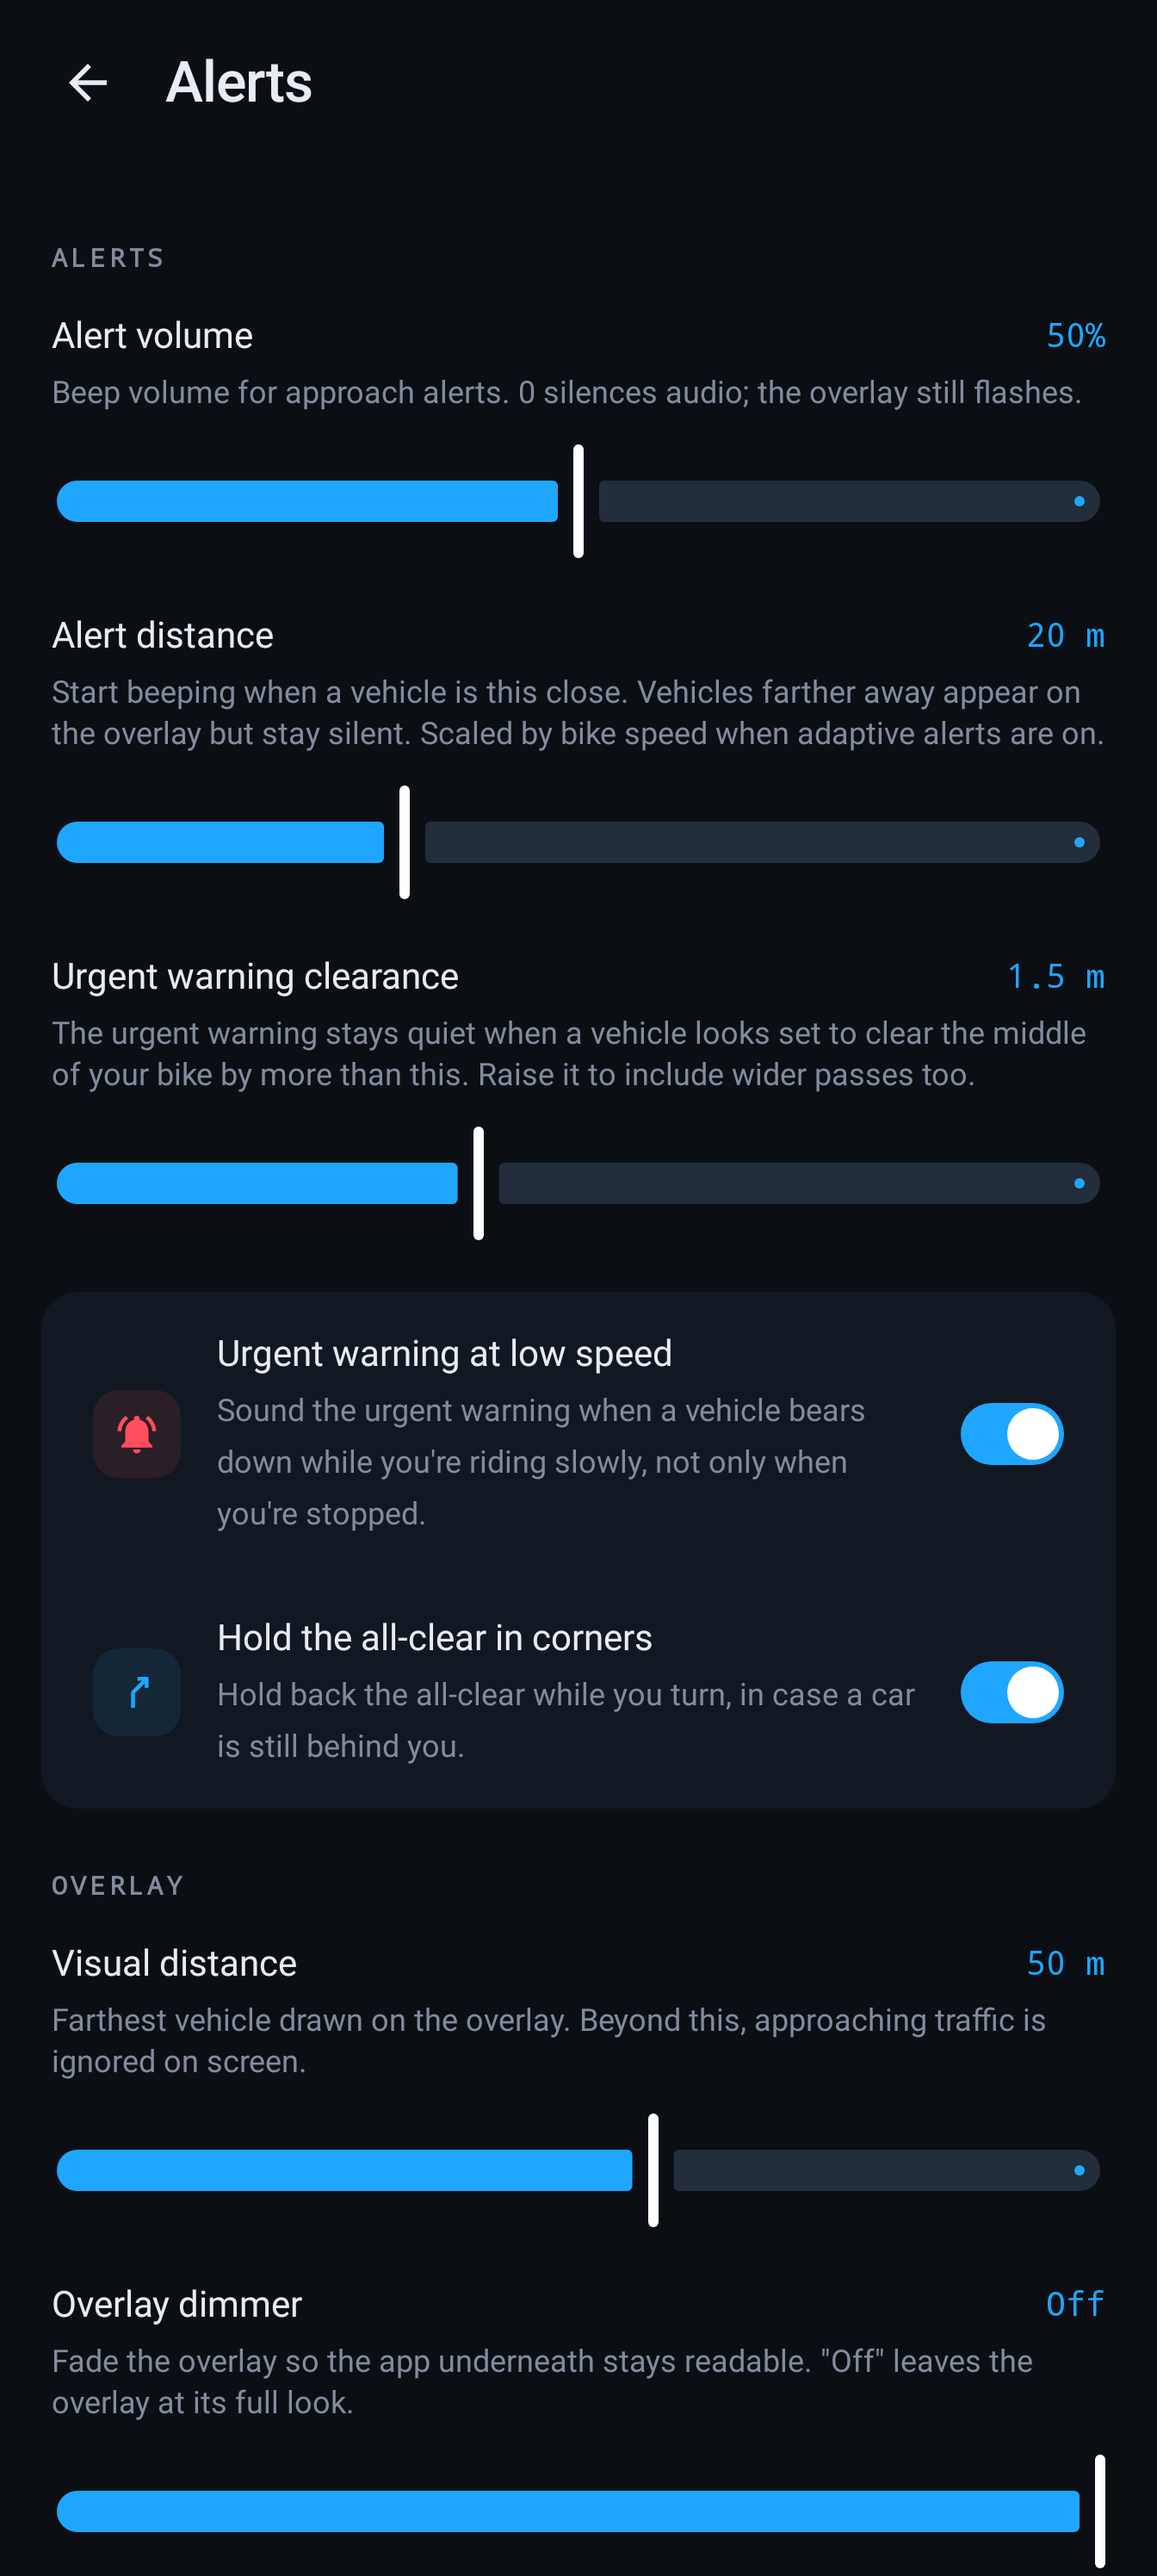
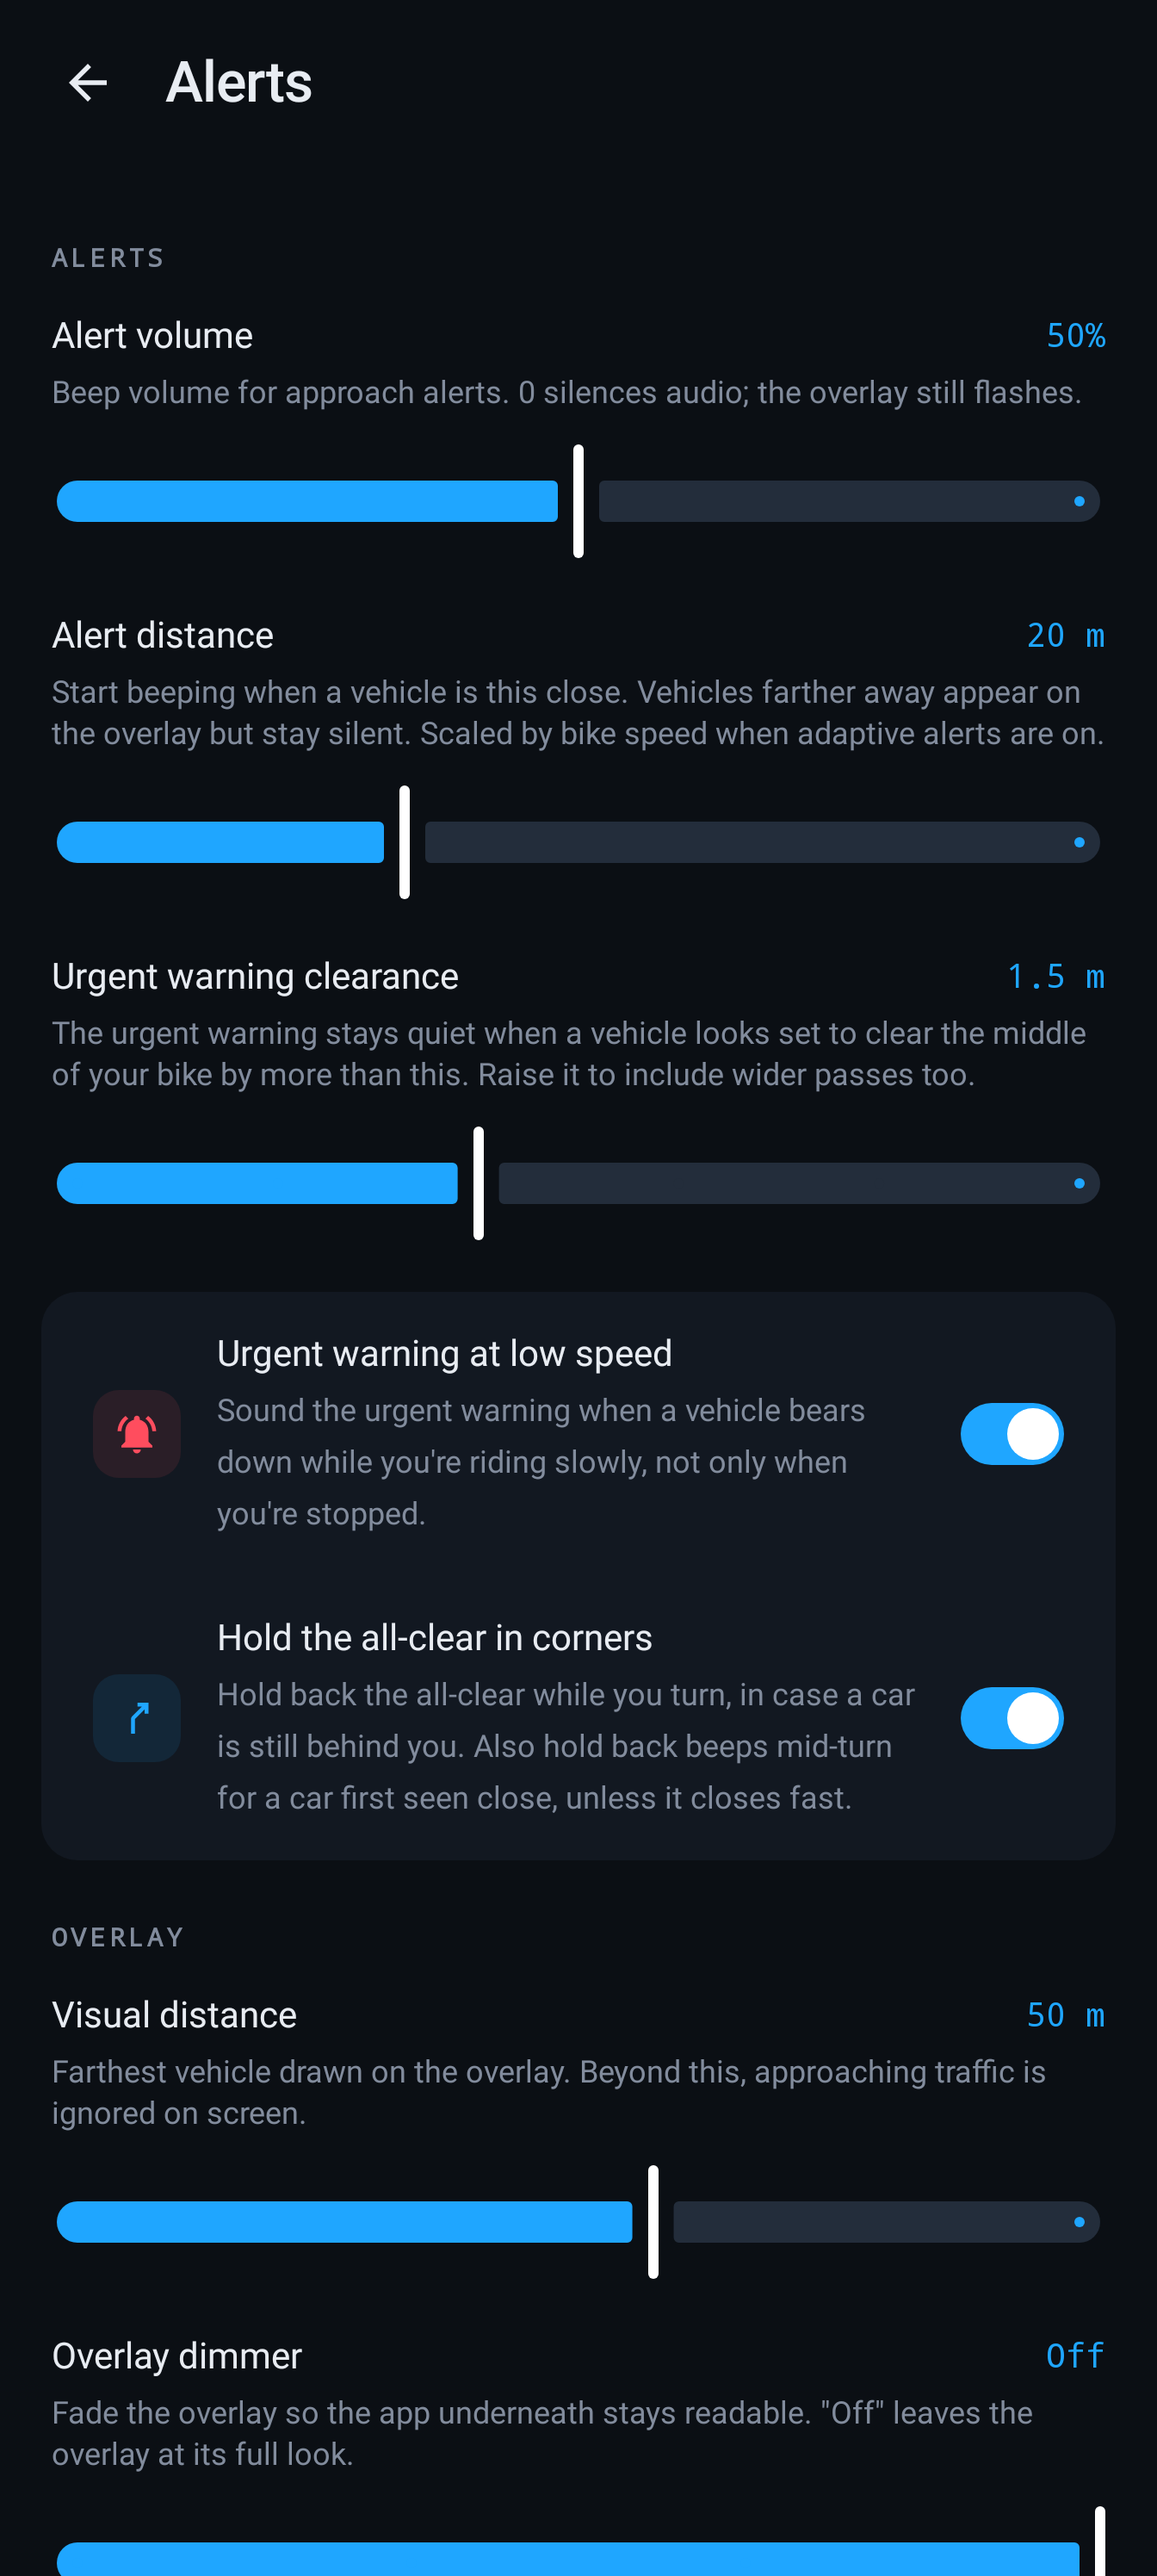
ui: say the corner setting also holds beeps for cars first seen close
With the setting off the decider sees no turn at all, so it also drops
the stricter mid-turn bar for a vehicle first seen close behind. The
description now says so in both languages. The capture-log disclosure
names the setting as shown on screen and says when the turn trace is
recorded.

A pipeline test pins that the setting governs that filter, and a gate
test that slow closing does not count while turning.

diff --git a/app/src/test/java/es/jjrh/bikeradar/OverlayPipelineDrivingTest.kt b/app/src/test/java/es/jjrh/bikeradar/OverlayPipelineDrivingTest.kt
@@ -516,6 +516,45 @@ class OverlayPipelineDrivingTest {
         assertEquals(1, stops)
     }
 
+    @Test
+    fun theCornerSettingAlsoGovernsTheCloseBehindFilter() = runTest {
+        // A car first seen 8 m behind, closing at 3 m/s, while the sensor
+        // says TURNING. With the setting on, the filter for cars first seen
+        // close holds its beep, because a turn can fake that much closing.
+        // Off, the decider sees no turn and the same frames beep.
+        val on = closeBehindWhileTurning(settingOn = true)
+        assertEquals(on.toString(), 0, on.count { it.contains("event=Beep") })
+        assertTrue(on.toString(), on.any { it.startsWith("# gate suppress tid=5") && it.contains("turn=TURNING") })
+        val off = closeBehindWhileTurning(settingOn = false)
+        assertEquals(off.toString(), 1, off.count { it.contains("event=Beep") })
+        assertEquals(off.toString(), 1, off.count { it.contains("event=Beep(2)") })
+    }
+
+    private suspend fun kotlinx.coroutines.test.TestScope.closeBehindWhileTurning(settingOn: Boolean): List<String> {
+        prefs.turnAwareAlertsEnabled = settingOn
+        var mono = 1_000L
+        val clogLines = mutableListOf<String>()
+        val pipeline = buildPipeline(
+            clog = { clogLines += it },
+            clockMono = { mono },
+            turnState = { TurnStateDecider.State.TURNING },
+        )
+        val job = pipeline.attach(this, "TestRadar")
+        runCurrent()
+        val car = Vehicle(id = 5, distanceM = 8, speedMs = -3f, bornDistanceM = 8, bornInformative = true, bornAtMs = 1_000L)
+        repeat(5) { i ->
+            mono = 1_000L + i * 100L
+            RadarStateBus.publish(
+                RadarState(source = DataSource.V2, timestamp = mono, vehicles = listOf(car), bikeSpeedMs = 5f),
+            )
+            runCurrent()
+        }
+        job.cancel()
+        job.join()
+        RadarStateBus.clear()
+        return clogLines
+    }
+
     /** Drive one arming overtake (4 closing frames then track-drop) into
      *  [RadarStateBus] and pump the test scheduler. Mirrors the geometry of
      *  [closePassCountingWorksWithoutHomeAssistant]: lateralPos 0.25 *

diff --git a/app/src/main/java/es/jjrh/bikeradar/data/Prefs.kt b/app/src/main/java/es/jjrh/bikeradar/data/Prefs.kt
@@ -471,7 +471,13 @@ class Prefs(context: Context) {
      *  sweeps the radar's rear cone off every followed car, so without the
      *  hold each 90-degree turn with a follower produces a spurious all-clear
      *  plus a fresh beep when the same car is reacquired seconds later. Uses
-     *  the gyroscope only while a ride is live. Default on. */
+     *  the gyroscope only while a ride is live. Default on.
+     *
+     *  Off, the decider sees no turn at all, so it also switches off the
+     *  stricter mid-turn bar in [es.jjrh.bikeradar.BornCloseGate]: a vehicle
+     *  first seen close behind can then earn its beep on closing a turn
+     *  produced. Pinned by
+     *  `OverlayPipelineDrivingTest.theCornerSettingAlsoGovernsTheCloseBehindFilter`. */
     var turnAwareAlertsEnabled: Boolean
         get() = sp.getBoolean(KEY_TURN_AWARE_ALERTS, true)
         set(v) {

diff --git a/app/src/test/java/es/jjrh/bikeradar/BornCloseGateTest.kt b/app/src/test/java/es/jjrh/bikeradar/BornCloseGateTest.kt
@@ -113,6 +113,18 @@ class BornCloseGateTest {
     }
 
     @Test
+    fun `slow-path evidence does not count while TURNING`() {
+        val g = BornCloseGate()
+        val v = bornClose(speedMs = -1f)
+        var now = 0L
+        repeat(20) {
+            g.update(listOf(v), turning, now)
+            now += 100
+        }
+        assertTrue(g.isGated(v))
+    }
+
+    @Test
     fun `slow-path run is broken by a non-closing frame`() {
         val g = BornCloseGate()
         var now = 0L
